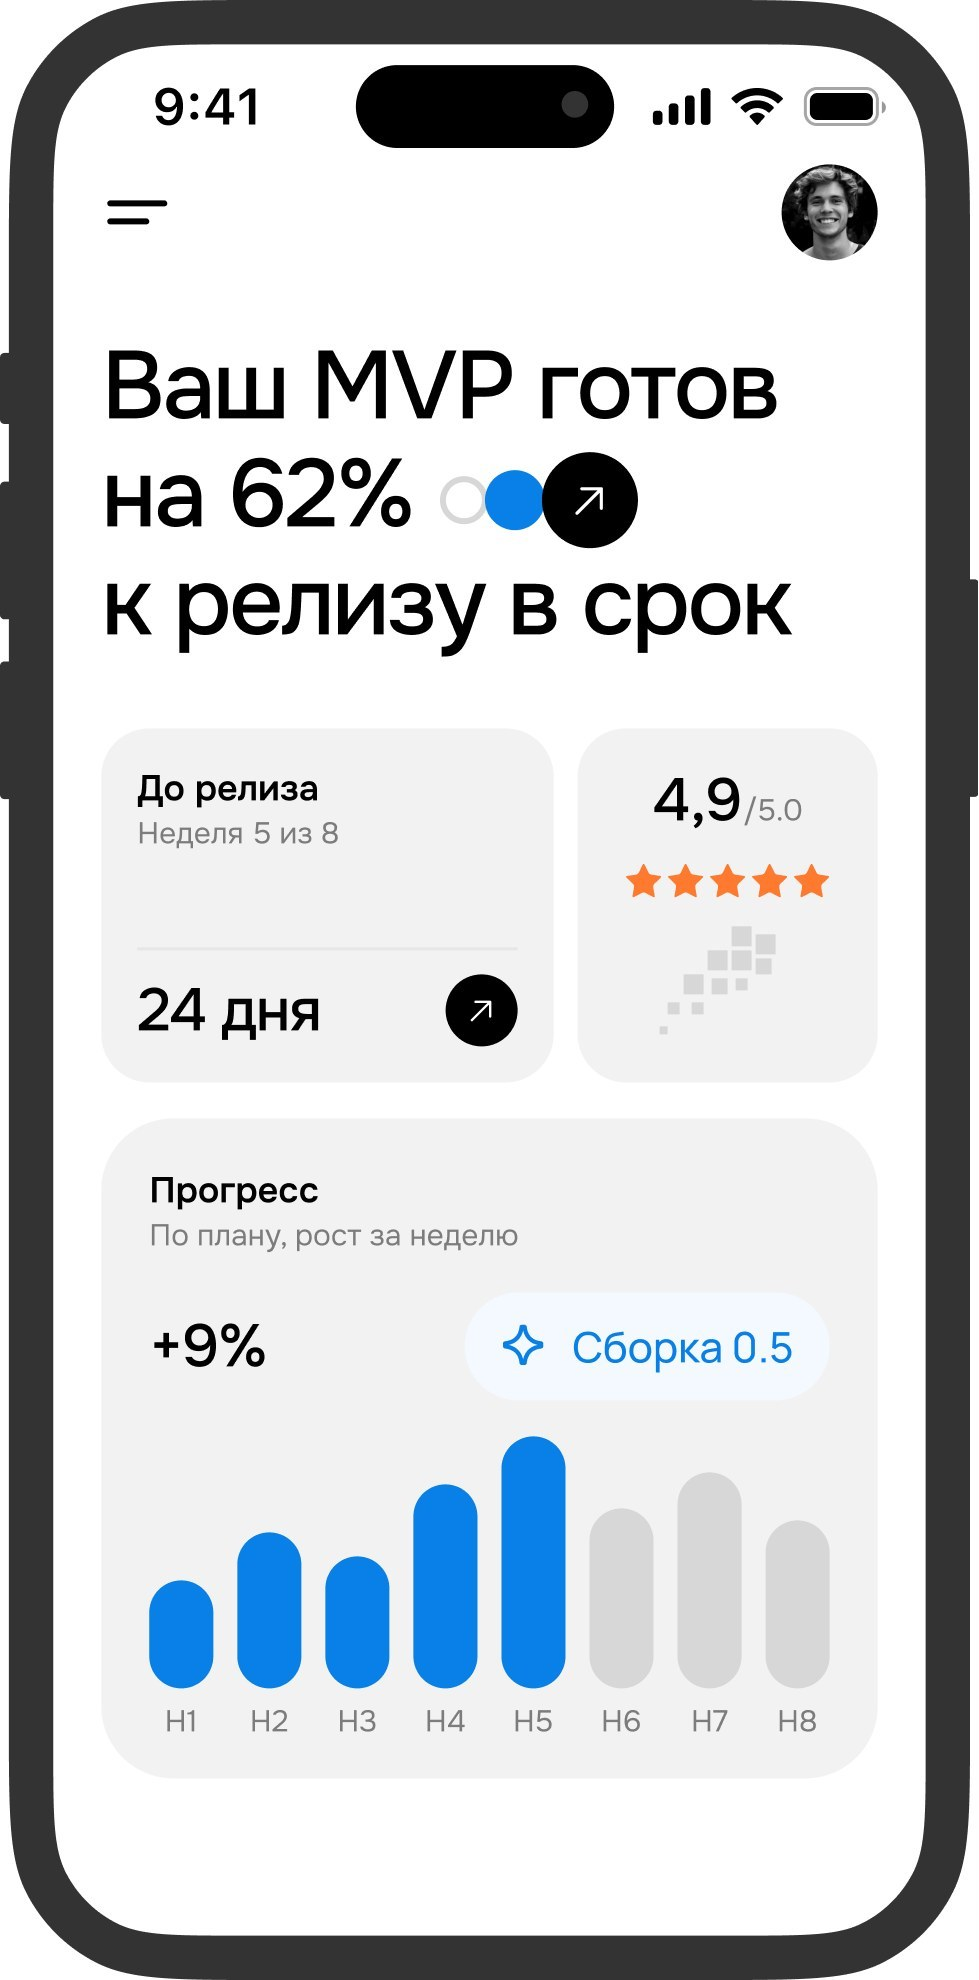
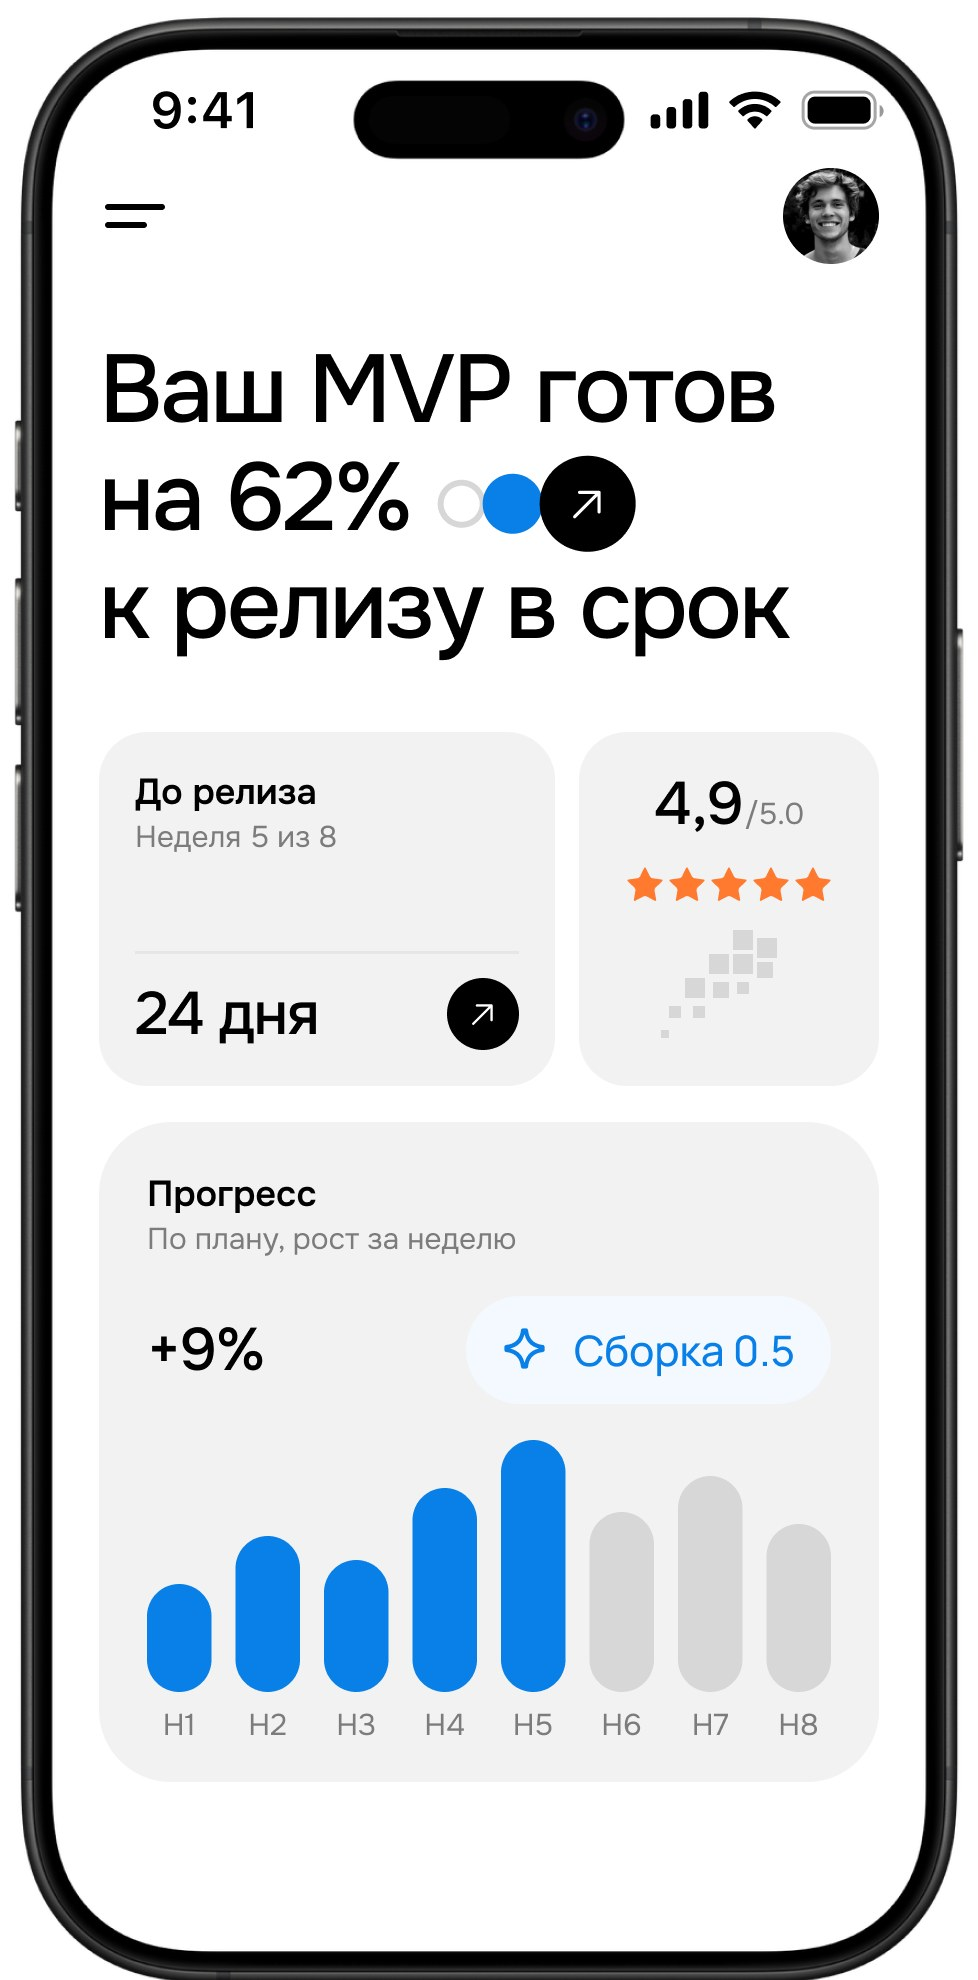
appbusters: настоящий iPhone в CTA

diff --git a/appbusters/index.html b/appbusters/index.html
@@ -503,7 +503,7 @@ html.lenis,html.lenis body{height:auto}.lenis:not(.lenis-autoToggle).lenis-stopp
           <div class="promise"><span class="promise__icon"><svg width="20" height="20" viewBox="0 0 24 24" fill="none" stroke="currentColor" stroke-width="1.5" stroke-linecap="round" stroke-linejoin="round" aria-hidden="true"><rect x="3" y="4" width="18" height="18" rx="2"/><path d="M16 2v4M8 2v4M3 10h18M9 16l2 2 4-4"/></svg></span><span class="promise__text"><span class="heading-h3">Версия каждые 7&nbsp;дней</span><span class="text-sm">проверяете сразу, а&nbsp;не&nbsp;в&nbsp;финале</span></span></div>
           <div class="promise"><span class="promise__icon"><svg width="20" height="20" viewBox="0 0 24 24" fill="none" stroke="currentColor" stroke-width="1.5" stroke-linecap="round" stroke-linejoin="round" aria-hidden="true"><path d="M7.9 20A9 9 0 1 0 4 16.1L2 22Z"/></svg></span><span class="promise__text"><span class="heading-h3">Чат с&nbsp;командой</span><span class="text-sm">отвечаем и&nbsp;в&nbsp;выходные</span></span></div>
         </div>
-        <img class="phone" src="img/phone-cta.jpg?v=20261012" width="326" height="660" alt="" aria-hidden="true">
+        <img class="phone" src="img/phone-cta.jpg?v=20261012b" width="326" height="660" alt="" aria-hidden="true">
         <div class="promises promises--right">
           <div class="promise"><span class="promise__icon"><svg width="20" height="20" viewBox="0 0 24 24" fill="none" stroke="currentColor" stroke-width="1.5" stroke-linecap="round" stroke-linejoin="round" aria-hidden="true"><path d="M19 7V4a1 1 0 0 0-1-1H5a2 2 0 0 0 0 4h15a1 1 0 0 1 1 1v4h-3a2 2 0 0 0 0 4h3a1 1 0 0 0 1-1v-2a1 1 0 0 0-1-1"/><path d="M3 5v14a2 2 0 0 0 2 2h15a1 1 0 0 0 1-1v-4"/></svg></span><span class="promise__text"><span class="heading-h3">Оплата по&nbsp;плану</span><span class="text-sm">можно поставить на&nbsp;паузу</span></span></div>
           <div class="promise"><span class="promise__icon"><svg width="20" height="20" viewBox="0 0 24 24" fill="none" stroke="currentColor" stroke-width="1.5" stroke-linecap="round" stroke-linejoin="round" aria-hidden="true"><path d="M22 10v6M2 10l10-5 10 5-10 5z"/><path d="M6 12v5c3 3 9 3 12 0v-5"/></svg></span><span class="promise__text"><span class="heading-h3">Обучение после запуска</span><span class="text-sm">для вас и&nbsp;сотрудников</span></span></div>
